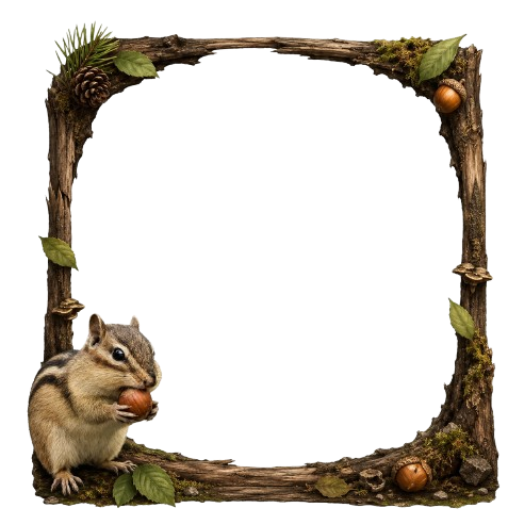
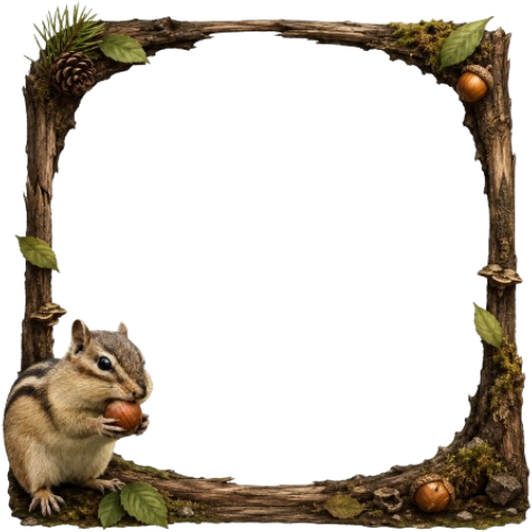
Add files via upload

diff --git a/admin.js b/admin.js
@@ -1,6 +1,8 @@
 const PHOTO_TABLE = "burunduki";
 const VIDEO_TABLE = "burunduki_videos";
 const CATEGORY_TABLE = "burunduk_categories";
+const GIGER_TABLE = "burunduk_gigers";
+const PROFILES_TABLE = "burunduk_profiles";
 
 let db = null;
 let allCategories = [];
@@ -637,10 +639,12 @@ function renderUsers() {
         <div class="admin-row-sub">фото: ${u.photoCount} · видео: ${u.videoCount} · код: ${u.code.slice(0, 8)}...</div>
       </div>
       <div class="admin-row-actions">
+        <button class="tool-btn" data-gift-gigers>Выдать гиперзадки</button>
         <button class="tool-btn" data-rename>Переименовать везде</button>
       </div>
     `;
     row.querySelector("[data-rename]").addEventListener("click", () => renameUserEverywhere(u));
+    row.querySelector("[data-gift-gigers]").addEventListener("click", () => giftGigersToUser(u.code, u.name));
     el.appendChild(row);
   });
 }
@@ -665,6 +669,170 @@ async function renameUserEverywhere(user) {
   await loadPhotos();
   await loadVideos();
   renderUsers();
+}
+
+/* ==================================================================
+   ВЫДАЧА ГИПЕРЗАДОК (админский чит — без списания у кого-либо)
+   ================================================================== */
+async function grantGigers(ownerCode, ownerName, amount) {
+  if (!ownerCode) {
+    showToast("Нужен owner_code пользователя");
+    return;
+  }
+  if (!amount || amount <= 0) {
+    showToast("Укажи количество гиперзадок больше нуля");
+    return;
+  }
+
+  const { data, error } = await db.rpc("admin_grant_gigers", {
+    p_owner_code: ownerCode,
+    p_owner_name: ownerName || null,
+    p_amount: Math.round(amount),
+  });
+
+  if (error) {
+    showToast("Не удалось выдать гиперзадки: " + error.message);
+    return;
+  }
+
+  showToast(`Выдано ${amount} гиперзадок ${ownerName ? `«${ownerName}» ` : ""}— новый баланс: ${data} 🐿️`);
+}
+
+function giftGigersToUser(ownerCode, ownerName) {
+  const amountStr = prompt(`Сколько гиперзадок выдать «${ownerName}»?`, "10");
+  if (!amountStr) return;
+  const amount = parseInt(amountStr, 10);
+  grantGigers(ownerCode, ownerName, amount);
+}
+
+async function findOwnerCodeByName(name) {
+  const normalized = name.trim().toLowerCase();
+  if (!normalized) return null;
+
+  const localMatch = collectUsers().find((u) => (u.name || "").trim().toLowerCase() === normalized);
+  if (localMatch) return { code: localMatch.code, name: localMatch.name };
+
+  const { data: profileMatches } = await db
+    .from("burunduk_profiles")
+    .select("owner_code, display_name")
+    .ilike("display_name", name.trim())
+    .limit(1);
+  if (profileMatches && profileMatches.length) {
+    return { code: profileMatches[0].owner_code, name: profileMatches[0].display_name };
+  }
+
+  const { data: gigerMatches } = await db
+    .from(GIGER_TABLE)
+    .select("owner_code, owner_name")
+    .ilike("owner_name", name.trim())
+    .limit(1);
+  if (gigerMatches && gigerMatches.length) {
+    return { code: gigerMatches[0].owner_code, name: gigerMatches[0].owner_name };
+  }
+
+  return null;
+}
+
+const giftGigersBtn = document.getElementById("giftGigersBtn");
+if (giftGigersBtn) {
+  giftGigersBtn.addEventListener("click", async () => {
+    const ownerName = document.getElementById("giftGigersOwnerName").value.trim();
+    const amount = parseInt(document.getElementById("giftGigersAmount").value, 10);
+
+    if (!ownerName) {
+      showToast("Впиши имя пользователя");
+      return;
+    }
+
+    const found = await findOwnerCodeByName(ownerName);
+    if (!found) {
+      showToast(`Не нашёл пользователя «${ownerName}» — он ещё ни разу не заходил на сайт`);
+      return;
+    }
+
+    await grantGigers(found.code, found.name || ownerName, amount);
+  });
+}
+
+/* ==================================================================
+   ВЫДАЧА РАМОК (админский чит — без списания гиперзадок и без проверки условий)
+   ================================================================== */
+const FRAME_DEFS = [
+  { id: "wombatramka", name: "Вомбатрамка", asset: "assets/wombatramka.png" },
+  { id: "burundukramka", name: "Бурундукрамка", asset: "assets/burundukramka.png" },
+  { id: "belkoslavramka", name: "Белкославрамка", asset: "assets/belkoslavramka.png" },
+  { id: "patriotramka", name: "Патриотрамка", asset: "assets/patriotramka.png" },
+  { id: "capuchinramka", name: "Капуцинрамка", asset: "assets/capuchinramka.png" },
+  { id: "sonkaramka", name: "Сонкарамка", asset: "assets/Sonkaramka.png" },
+];
+const FRAMES_TABLE = "burunduk_frames";
+
+function fillFrameSelect() {
+  const select = document.getElementById("giftFrameSelect");
+  if (!select) return;
+  select.innerHTML = FRAME_DEFS.map((f) => `<option value="${f.id}">${escapeHtml(f.name)}</option>`).join("");
+}
+
+async function grantFrame(ownerCode, ownerName, frameId) {
+  if (!ownerCode) {
+    showToast("Нужен owner_code пользователя");
+    return;
+  }
+  if (!frameId) {
+    showToast("Выбери рамку");
+    return;
+  }
+
+  const { error } = await db
+    .from(FRAMES_TABLE)
+    .upsert(
+      { owner_code: ownerCode, frame_id: frameId },
+      { onConflict: "owner_code,frame_id", ignoreDuplicates: true }
+    );
+
+  if (error) {
+    showToast("Не удалось выдать рамку: " + error.message);
+    return;
+  }
+
+  const frameDef = FRAME_DEFS.find((f) => f.id === frameId);
+
+  const equipToo = document.getElementById("giftFrameEquipToo");
+  if (equipToo && equipToo.checked) {
+    const { error: equipError } = await db
+      .from(PROFILES_TABLE)
+      .upsert({ owner_code: ownerCode, equipped_frame: frameId }, { onConflict: "owner_code" });
+    if (equipError) {
+      showToast(`Рамка выдана, но не удалось надеть: ${equipError.message}`);
+      return;
+    }
+    showToast(`Рамка «${frameDef ? frameDef.name : frameId}» выдана и надета на ${ownerName ? `«${ownerName}» ` : ""}✅`);
+    return;
+  }
+
+  showToast(`Рамка «${frameDef ? frameDef.name : frameId}» выдана ${ownerName ? `«${ownerName}» ` : ""}✅`);
+}
+
+const giftFrameBtn = document.getElementById("giftFrameBtn");
+if (giftFrameBtn) {
+  fillFrameSelect();
+  giftFrameBtn.addEventListener("click", async () => {
+    const ownerName = document.getElementById("giftFrameOwnerName").value.trim();
+    const frameId = document.getElementById("giftFrameSelect").value;
+
+    if (!ownerName) {
+      showToast("Впиши имя пользователя");
+      return;
+    }
+
+    const found = await findOwnerCodeByName(ownerName);
+    if (!found) {
+      showToast(`Не нашёл пользователя «${ownerName}» — он ещё ни разу не заходил на сайт (нужно хотя бы задать имя в профиле)`);
+      return;
+    }
+
+    await grantFrame(found.code, found.name || ownerName, frameId);
+  });
 }
 
 /* ---------- Присвоение автора старым фото без владельца ---------- */

diff --git a/script.js b/script.js
@@ -41,6 +41,7 @@ const FRAME_DEFS = [
   { id: "belkoslavramka", name: "Белкославрамка", asset: "assets/belkoslavramka.png", type: "buy", price: 15 },
   { id: "patriotramka", name: "Патриотрамка", asset: "assets/patriotramka.png", type: "posts", postsRequired: 10 },
   { id: "capuchinramka", name: "Капуцинрамка", asset: "assets/capuchinramka.png", type: "posts", postsRequired: 25 },
+  { id: "sonkaramka", name: "Сонкарамка", asset: "assets/Sonkaramka.png", type: "views", viewsRequired: 50 },
 ];
 
 /* ---------- Ранги оценки (вместо звёзд) ---------- */
@@ -2827,6 +2828,18 @@ async function getOwnedFrames(ownerCode) {
   return (data || []).map((r) => r.frame_id);
 }
 
+// Суммарные просмотры всех публикаций пользователя (по ленте активности,
+// там уже есть owner_code и kind='view' на каждый уникальный просмотр).
+async function getTotalViewsForOwner(ownerCode) {
+  const { count, error } = await db
+    .from("burunduk_activity")
+    .select("id", { count: "exact", head: true })
+    .eq("owner_code", ownerCode)
+    .eq("kind", "view");
+  if (error) return 0;
+  return count || 0;
+}
+
 async function openFramesModal() {
   if (!currentIdentity || !viewingProfileCode) return;
   framesModal.classList.add("active");
@@ -2836,10 +2849,14 @@ async function openFramesModal() {
     allPhotoRecords.filter((r) => r.owner_code === currentIdentity.code).length +
     allVideoRecords.filter((r) => r.owner_code === currentIdentity.code).length;
 
+  const totalViews = await getTotalViewsForOwner(currentIdentity.code);
+
   let ownedIds = await getOwnedFrames(currentIdentity.code);
 
   const toUnlock = FRAME_DEFS.filter(
-    (f) => f.type === "posts" && postsCount >= f.postsRequired && !ownedIds.includes(f.id)
+    (f) =>
+      (f.type === "posts" && postsCount >= f.postsRequired && !ownedIds.includes(f.id)) ||
+      (f.type === "views" && totalViews >= f.viewsRequired && !ownedIds.includes(f.id))
   );
   if (toUnlock.length) {
     await db.from(FRAMES_TABLE).insert(
@@ -2879,6 +2896,13 @@ async function openFramesModal() {
       priceEl.className = "frame-card-price";
       priceEl.innerHTML = `<img src="assets/giperzadka.png" style="width:14px;height:14px;object-fit:contain;"> ${frame.price}`;
       card.appendChild(priceEl);
+    } else if (frame.type === "views") {
+      const statusEl = document.createElement("div");
+      statusEl.className = "frame-card-status";
+      statusEl.textContent = owned
+        ? "Разблокировано"
+        : `Нужно ${frame.viewsRequired} просмотров (сейчас ${totalViews})`;
+      card.appendChild(statusEl);
     } else {
       const statusEl = document.createElement("div");
       statusEl.className = "frame-card-status";

diff --git a/admin.html b/admin.html
@@ -49,6 +49,30 @@
     <div id="videosList" class="admin-list">Загружаю...</div>
   </section>
 
+  <section class="admin-section" id="section-gigers">
+    <h2>🐿️ Выдать гиперзадки</h2>
+    <p class="admin-hint">Впиши имя пользователя (как оно отображается на сайте) — если такой автор уже публиковал фото/видео, код подставится сам. Либо просто нажми "Выдать гиперзадки" прямо в разделе "Пользователи" ниже.</p>
+    <div class="admin-add-row">
+      <input type="text" id="giftGigersOwnerName" class="modal-input" placeholder="имя пользователя">
+      <input type="number" id="giftGigersAmount" class="modal-input" placeholder="сколько гиперзадок" value="10" min="1" style="max-width: 140px;">
+      <button id="giftGigersBtn" class="pick-btn small">Выдать</button>
+    </div>
+  </section>
+
+  <section class="admin-section" id="section-frames">
+    <h2>🖼️ Выдать рамку аватарки</h2>
+    <p class="admin-hint">Впиши имя пользователя (как оно отображается на сайте) — если такой автор уже публиковал фото/видео или заходил на сайт, код подставится сам. Рамка выдаётся бесплатно, без списания гиперзадок и без проверки условий (постов/цены) — удобно для теста.</p>
+    <div class="admin-add-row">
+      <input type="text" id="giftFrameOwnerName" class="modal-input" placeholder="имя пользователя">
+      <select id="giftFrameSelect" class="modal-input"></select>
+      <button id="giftFrameBtn" class="pick-btn small">Выдать рамку</button>
+    </div>
+    <label class="admin-hint" style="display:flex; align-items:center; gap:6px; cursor:pointer;">
+      <input type="checkbox" id="giftFrameEquipToo" checked style="width:auto;">
+      сразу надеть эту рамку на пользователя (удобно для теста)
+    </label>
+  </section>
+
   <section class="admin-section" id="section-users">
     <h2>👥 Пользователи (авторы)</h2>
     <p class="admin-hint">Список всех owner_code/owner_name, встреченных в фото и видео. Можно переименовать автора везде разом — полезно для старых фото без автора.</p>